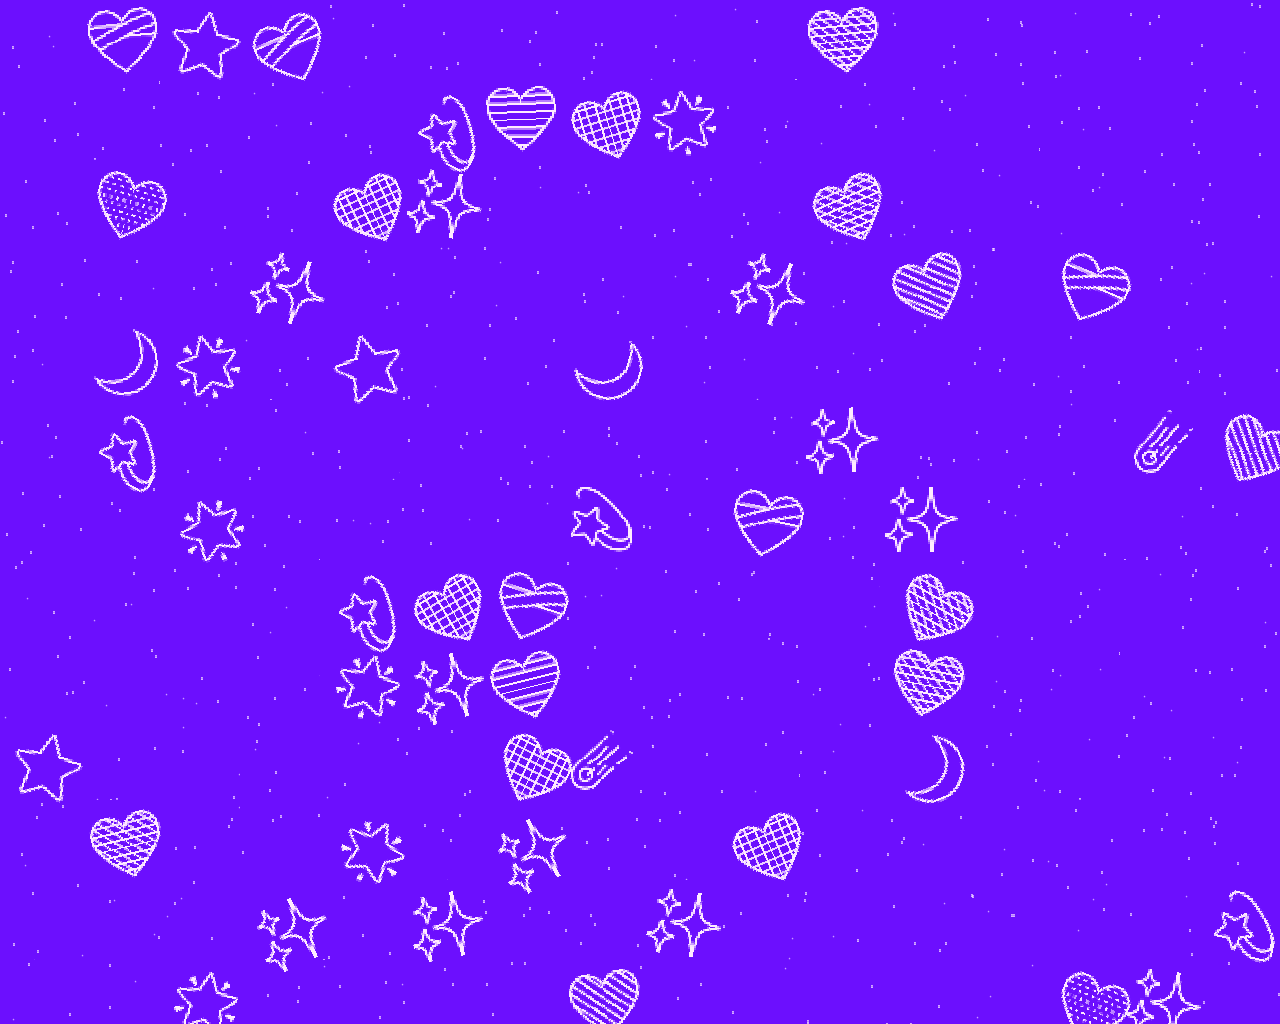
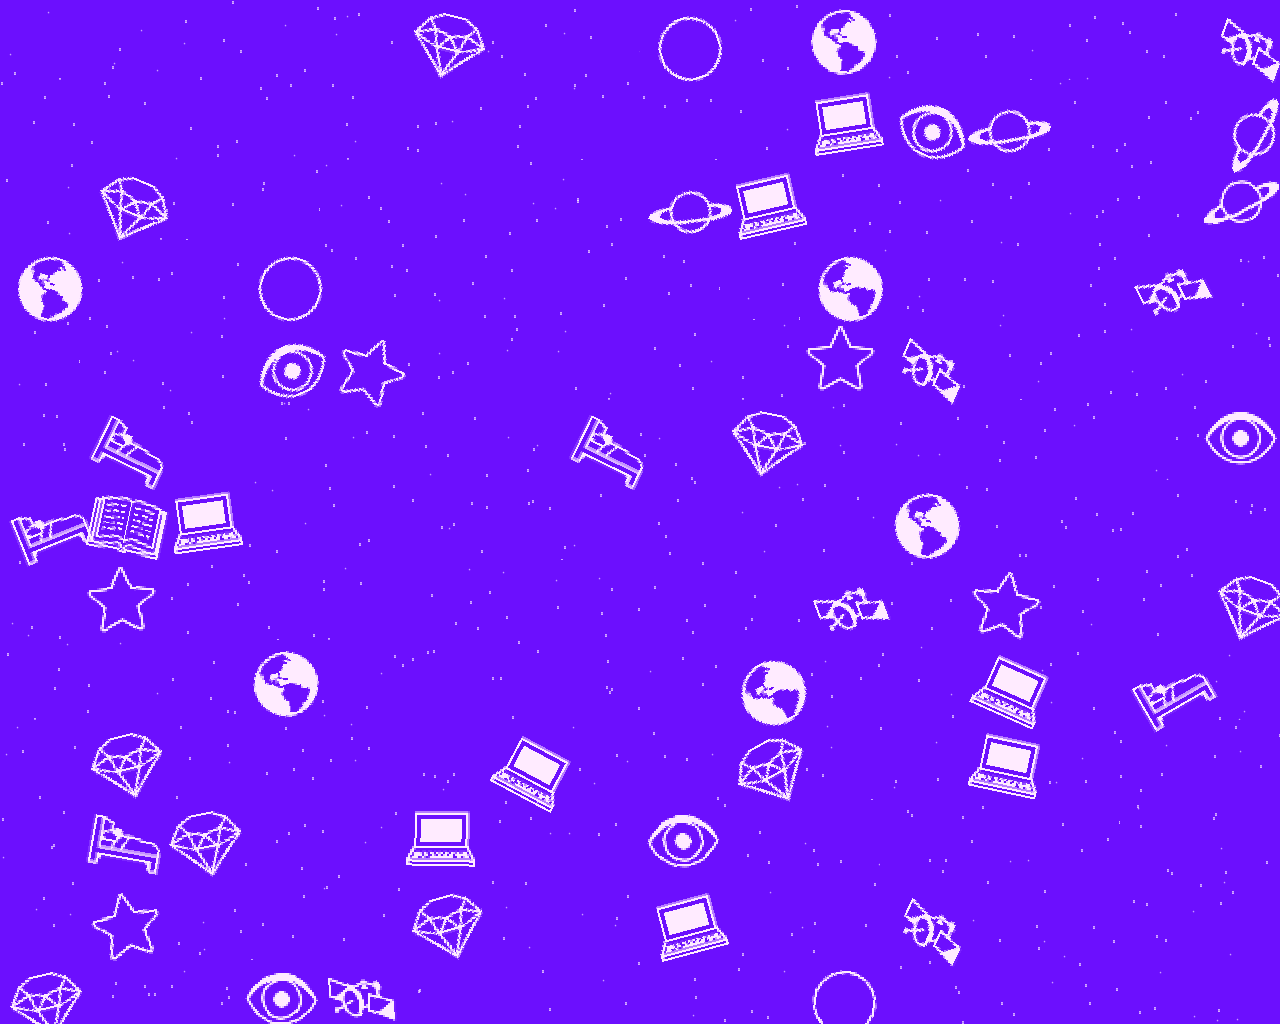
updated the thing

diff --git a/engine.py b/engine.py
@@ -7,7 +7,7 @@ import gui
 class Engine:
     def __init__(self, mode):
         # Fallbacks
-        self.emojis = "🤎🖤💛💚💙✨⭐💫❤🩹🌟🌙☄"
+        self.emojis = "🌎🛌🛰📖💎🪐🌕👁💻⭐" # "🤎🖤💛💚💙✨⭐💫❤🩹🌟🌙☄"
         self.xRes = 1280
         self.yRes = 1024
         self.mode = mode  # can be 'fillscreen' 'spread'
